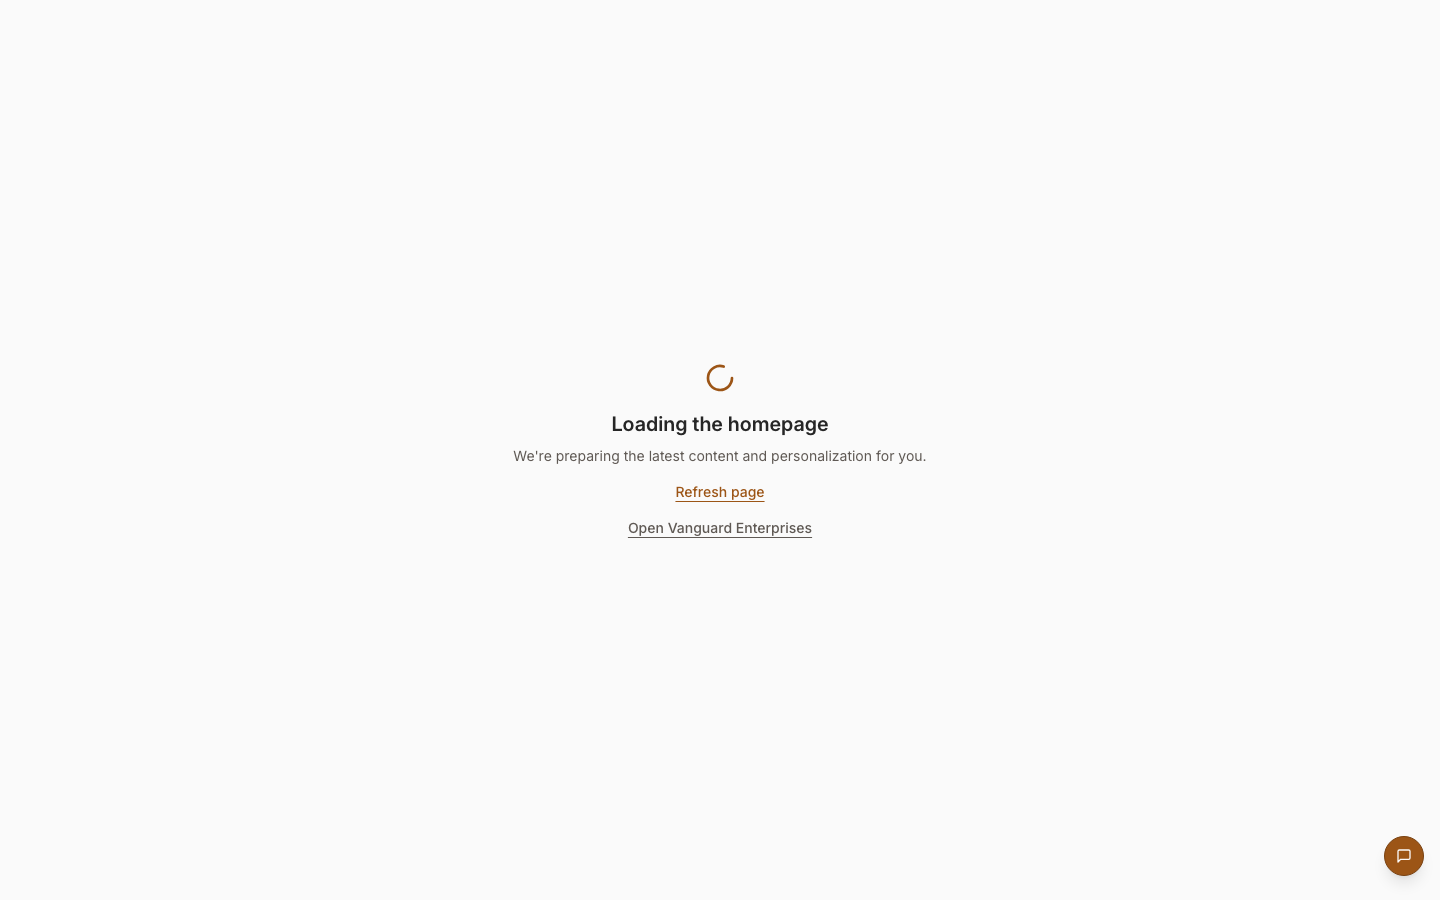
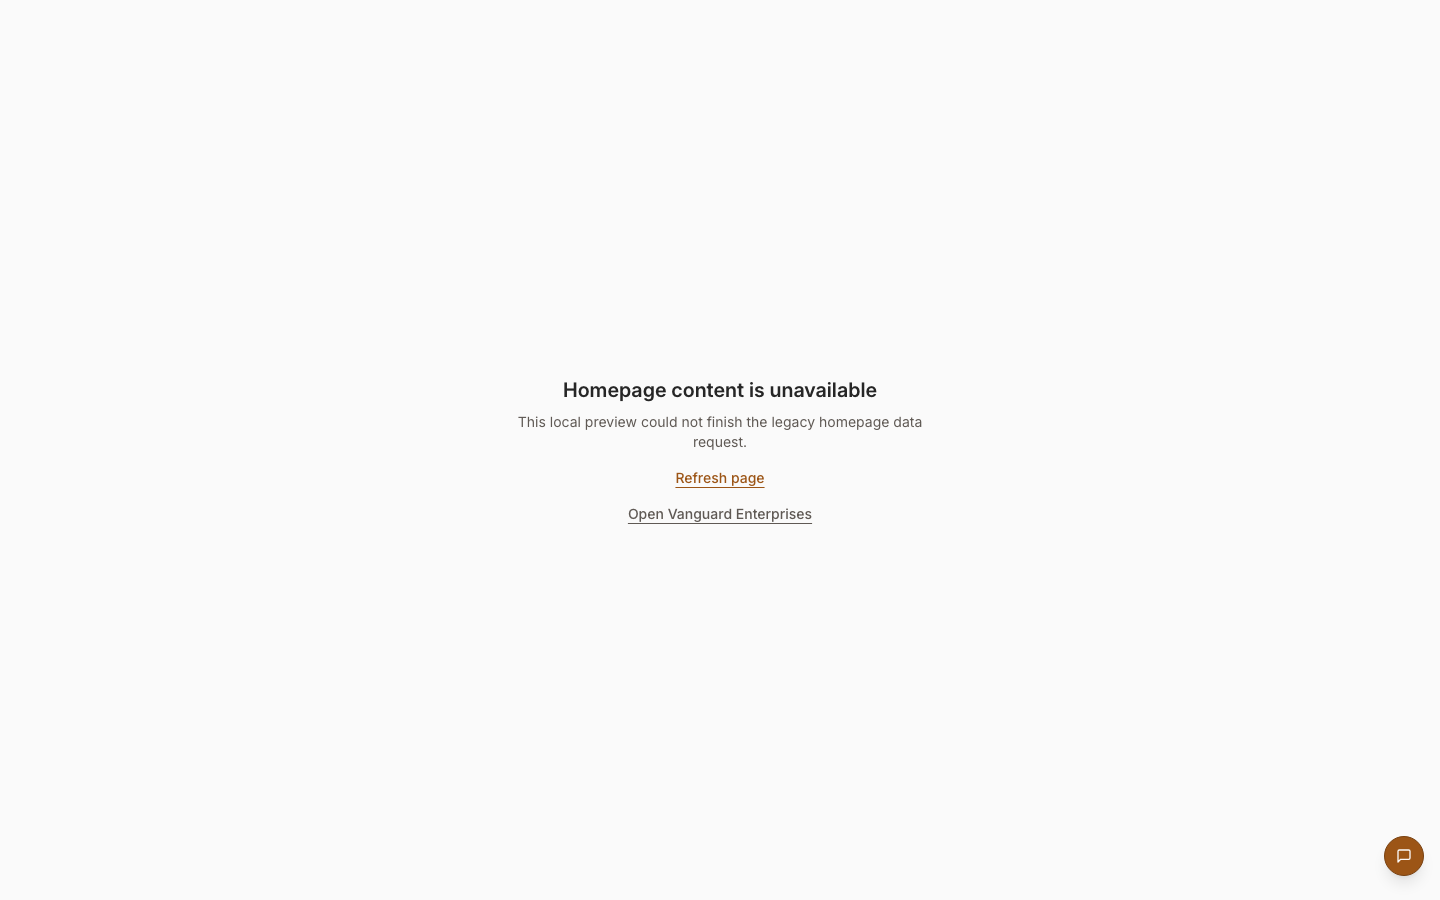
fix: stop legacy homepage from hanging

Changed region(s): [[0.3438, 0.4044, 0.625, 0.5911]]

diff --git a/client/src/pages/Home.tsx b/client/src/pages/Home.tsx
@@ -1,4 +1,4 @@
-import { useState } from "react";
+import { useEffect, useState } from "react";
 import { Loader2 } from "lucide-react";
 import { Link } from "wouter";
 import { useQuery } from "@tanstack/react-query";
@@ -37,7 +37,7 @@ const DEFAULT_SECTIONS: VisibleSections = {
   "volunteer-dashboard": false,  // Only visible for enrolled volunteers
 };
 
-function HomeLoadingState() {
+function HomeLoadingState({ isStalled }: { isStalled: boolean }) {
   return (
     <main
       className="flex min-h-screen items-center justify-center bg-background px-6 text-foreground"
@@ -46,11 +46,15 @@ function HomeLoadingState() {
       data-testid="home-loading-state"
     >
       <div className="flex max-w-md flex-col items-center gap-4 text-center">
-        <Loader2 className="h-8 w-8 animate-spin text-primary" aria-hidden="true" />
+        {isStalled ? null : <Loader2 className="h-8 w-8 animate-spin text-primary" aria-hidden="true" />}
         <div>
-          <h1 className="text-xl font-semibold">Loading the homepage</h1>
+          <h1 className="text-xl font-semibold">
+            {isStalled ? "Homepage content is unavailable" : "Loading the homepage"}
+          </h1>
           <p className="mt-2 text-sm text-muted-foreground">
-            We're preparing the latest content and personalization for you.
+            {isStalled
+              ? "This local preview could not finish the legacy homepage data request."
+              : "We're preparing the latest content and personalization for you."}
           </p>
         </div>
         <button
@@ -74,6 +78,7 @@ function HomeLoadingState() {
 export default function Home() {
   const { persona, funnelStage, isPersonaLoading } = usePersona();
   const [heroImageLoaded, setHeroImageLoaded] = useState(false);
+  const [isLoadingStalled, setIsLoadingStalled] = useState(false);
   const { data: visibleSections } = useContentAvailability();
 
   // Use actual persona values - no fallback to prevent flash
@@ -119,9 +124,14 @@ export default function Home() {
   // Don't render anything until persona and hero content queries complete (to prevent flash)
   // Note: We wait for loading to finish, not for content to exist (it might not exist for some personas)
   const isContentReady = !isPersonaLoading && !heroLoading && (!heroImageLoading || !heroContent?.[0]);
+
+  useEffect(() => {
+    const timeout = window.setTimeout(() => setIsLoadingStalled(true), 3000);
+    return () => window.clearTimeout(timeout);
+  }, []);
   
   if (!isContentReady) {
-    return <HomeLoadingState />;
+    return <HomeLoadingState isStalled={isLoadingStalled} />;
   }
 
   return (
